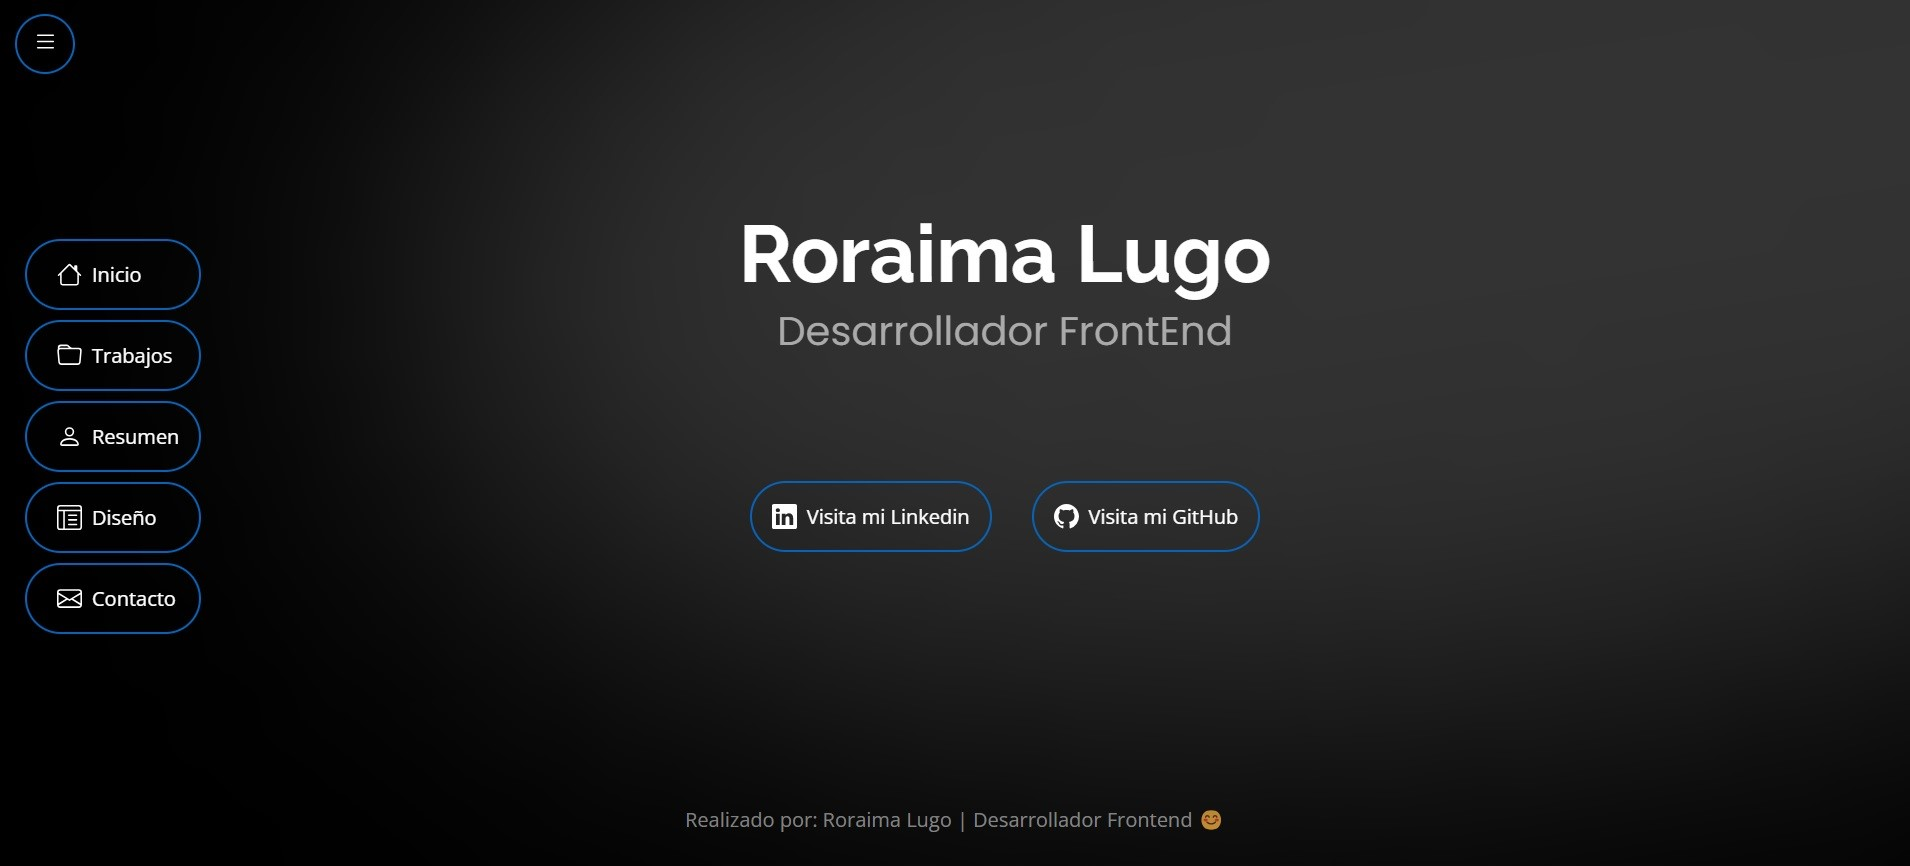
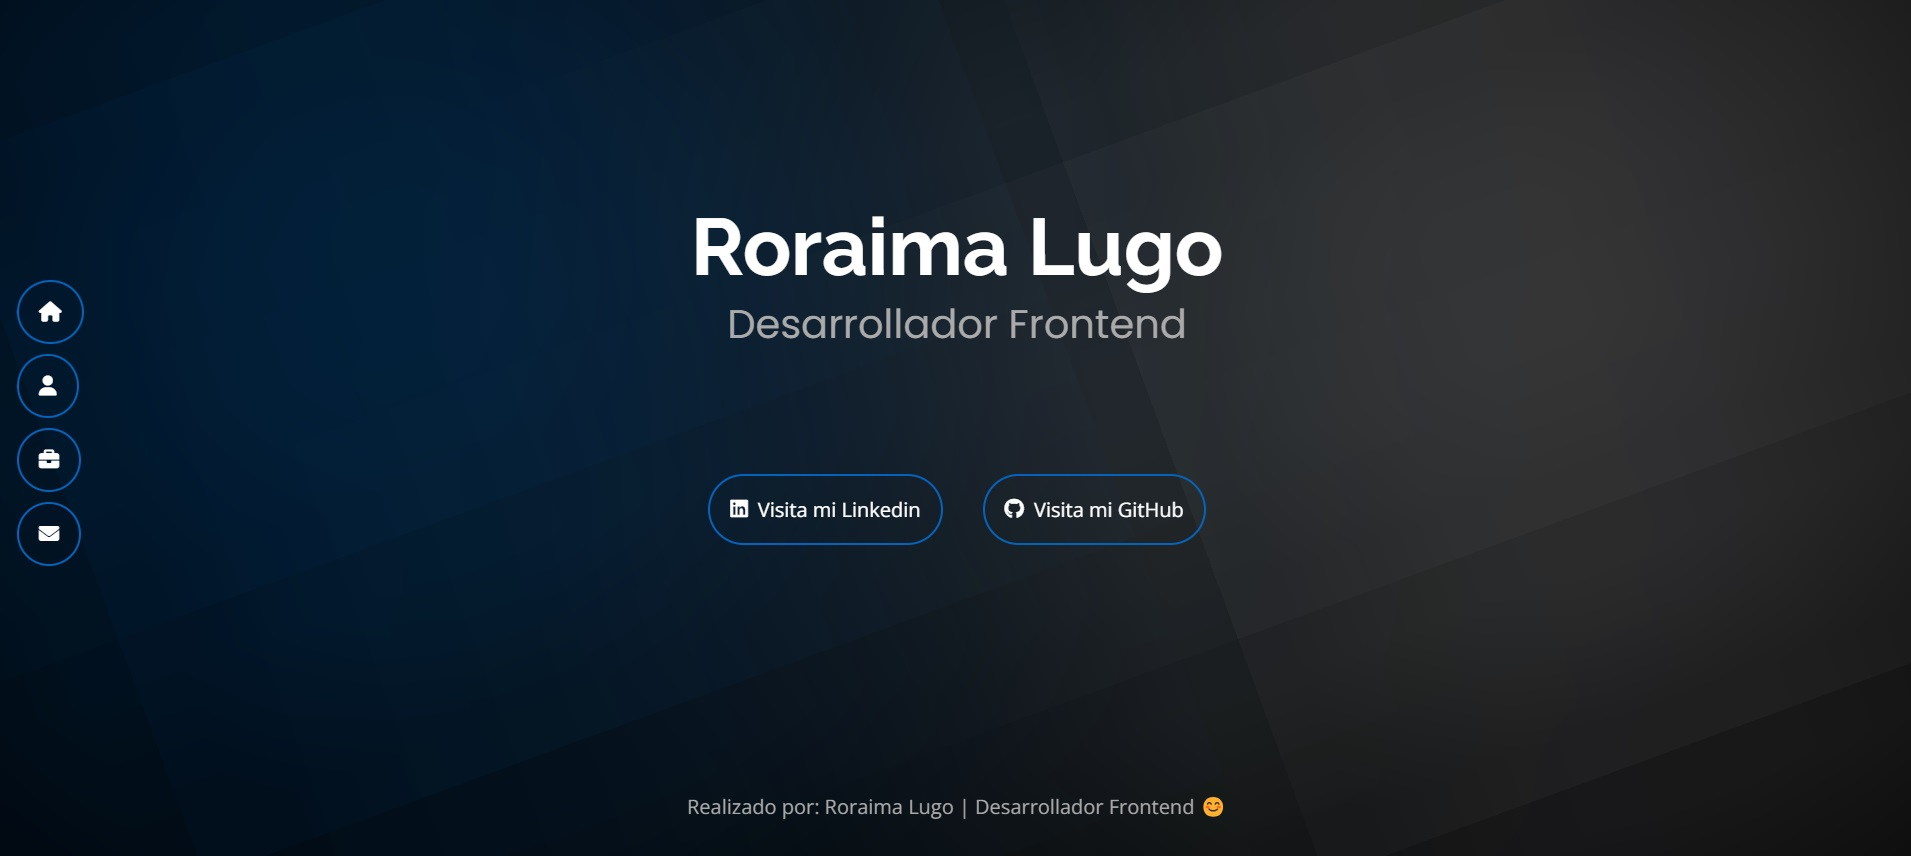
eliminacion de css responsive

diff --git a/src/styles.scss b/src/styles.scss
@@ -23,7 +23,7 @@ body {
   font-family: $text;
 }
 
-/*.circles {
+.circles {
   position: fixed;
   width: 100%;
   height: 100%;
@@ -33,34 +33,34 @@ body {
 
   .circle {
     position: absolute;
-    width: 40%;
-    height: 40%;
+    width: 40rem;
+    height: 30rem;
     border-radius: 50%;
-    filter: blur(3em);
-    animation: circleAnimation 40s linear infinite both;
+    filter: blur(20em);
+    animation: circleAnimation 100s linear infinite both;
   }
 
   @keyframes circleAnimation {
     from{
-      transform: rotate(0deg) scale(3);
+      transform: rotate(0deg);
     }
     to {
-      transform: rotate(360deg) scale(3);
+      transform: rotate(360deg);
     }
   }
 
   .circle1 {
-    background-color: $black;
+    background-color: $blue;
     top: 0%;
     left: 0%;
   }
 
   .circle2 {
-    background-color: $dark-gray;
+    background-color: $gray;
     top: 0%;
     right: 0%;
   }
-}*/
+}
 
 h1 {
   font-family: $title;
@@ -93,7 +93,7 @@ i {
 }
 
 .main {
-  width: 80%;
+  width: 75%;
   margin: 0 auto;
   position: relative;
   z-index: 2;
@@ -106,7 +106,6 @@ i {
   align-items: center;
   justify-content: center;
   padding: 5rem 0;
-  padding-left: 5rem;
   margin: 1rem;
 }
 
@@ -134,7 +133,7 @@ i {
       display: block;
 
       .item {
-        margin: 0.5rem;
+        margin-bottom: 0.5rem;
 
         a {
 
@@ -143,14 +142,6 @@ i {
             padding: 1rem;
             border-radius: 50%;
             transition: all 0.5s;
-          }
-
-          span {
-            margin-left: 0.5rem;
-            color: $blue;
-            opacity: 0!important;
-            transition: all 0.5s;
-            font-weight: bold;
           }
         }
       }
@@ -168,8 +159,6 @@ i {
 
         }
       }
-
-
     }
   }
 }
@@ -182,7 +171,7 @@ i {
     width: 10%;
   }
 
-  h2 {
+  .home-subtitle {
     color: $gray;
     font-family: $subtitle;
     margin-bottom: 5rem;
@@ -270,7 +259,7 @@ i {
       margin-top: 0.5rem;
       margin-bottom: 1rem;
       text-align: right;
-      flex-basis: 20%;
+      flex-basis: 40%;
 
       .resume-year {
         display: block;
@@ -282,7 +271,7 @@ i {
     .divider {
       position: absolute;
       top: 0;
-      left: 22%;
+      left: 41%;
       height: 100%;
       width: 1px;
       background-color: $white;
@@ -311,7 +300,7 @@ i {
     }
 
     .resume-profession {
-      flex-basis: 80%;
+      flex-basis: 60%;
       margin-left: 2rem;
       margin-top: 0.5rem;
       margin-bottom: 1rem;
@@ -361,10 +350,11 @@ i {
           .certificate-id {
             margin-bottom: 0.5rem;
             font-size: 0.8rem;
+            overflow: hidden!important;
+            text-overflow: ellipsis!important;
           }
 
           .certificate-date {
-
             font-size: 0.8rem;
           }
         }
@@ -419,7 +409,7 @@ i {
 
         .img {
           width: 100%;
-          height: 10rem;
+          height: 11rem;
           border:none;
           transition: all 0.5s ease;
         }
@@ -516,21 +506,21 @@ i {
         display: flex;
         align-items: center;
         justify-content: center;
-        width: 5rem;
-        height: 5rem;
+        width: 4rem;
+        height: 4rem;
         border-radius: 50%;
         border: 2px solid $blue;
-        font-size: 2.5rem;
+        font-size: 2rem;
       }
 
       h3 {
-        font-size: 1.5rem;
-        font-weight: 400;
+        font-size: 1.25rem;
+        font-weight: 600;
         margin-bottom: 0.5rem;
       }
 
       p {
-        font-size: 1.25rem;
+        font-size: 1rem;
       }
 
       a {
@@ -538,7 +528,7 @@ i {
       }
 
       .social-icon {
-        font-size: 2rem;
+        font-size: 1.5rem;
         transition: all 0.5s;
       }
 
@@ -552,6 +542,9 @@ i {
 
 /* footer */
 .footer {
+  position: relative;
+  z-index: 2;
+
   p {
     text-align: center;
     color: $gray;
@@ -560,131 +553,3 @@ i {
 }
 
 /* RESPONSIVE  */
-@media screen and (max-width: 1440px){
-  .portfolio-design {
-    .grid-container {
-      grid-template-columns: repeat(2, 1fr);
-    }
-  }
-}
-
-@media screen and (max-width: 991px) {
-
-  .about {
-    .article-about {
-      flex-direction: column;
-
-      .about-description {
-        text-align: center;
-      }
-    }
-  }
-
-  .contact {
-    .info {
-      flex-direction: column;
-
-      .information {
-        margin-bottom: 2rem;
-        justify-content: start;
-      }
-    }
-  }
-}
-
-@media screen and (max-width: 768px) {
-  .section {
-    padding-left: 5rem;
-  }
-
-  .portfolio-design {
-    .grid-container {
-      grid-template-columns: repeat(1, 1fr);
-    }
-  }
-}
-
-@media screen and (max-width:685px) {
-  .main {
-    width: 98%;
-  }
-
-  h1 {
-    font-size: 2.75rem;
-  }
-
-  h2 {
-    font-size: 1.5rem;
-  }
-
-  .home {
-    .link {
-      flex-direction: column;
-    }
-  }
-
-  .about .figure img {
-    width: 95%!important;
-  }
-
-
-}
-
-@media screen and (max-width:499px) {
-
-  .footer {
-    p {
-      font-size: 0.75rem;
-    }
-  }
-}
-
-@media screen and (max-width:480px) {
-  .contact {
-
-    .info {
-
-      .information {
-        .icon {
-          width: 4rem;
-          height: 4rem;
-          font-size: 2rem;
-        }
-
-        h3,
-        p,
-        .social-icon {
-          font-size: 1.2rem;
-        }
-      }
-    }
-
-
-  }
-}
-
-@media screen and (max-width:410px) {
-  .contact {
-
-    .info {
-
-      .information {
-        .icon {
-          width: 3rem;
-          height: 3rem;
-          font-size: 1.5rem;
-        }
-
-        h3,
-        p,
-        .social-icon {
-          font-size: 1rem;
-        }
-      }
-    }
-
-
-  }
-}
-
-

diff --git a/src/app/pages/home-page/home-page.component.html b/src/app/pages/home-page/home-page.component.html
@@ -1,7 +1,7 @@
 <section class="section home" id="home">
 
-  <h1>Roraima Lugo</h1>
-  <h2>Desarrollador Frontend</h2>
+  <h1 class="home-title">Roraima Lugo</h1>
+  <h2 class="home-subtitle">Desarrollador Frontend</h2>
 
   <div class="link">
     <a href="https://www.linkedin.com/in/roraima-lugo-7a077124a" target="_blank" >

diff --git a/src/app/components/navbar/navbar.component.html b/src/app/components/navbar/navbar.component.html
@@ -14,7 +14,6 @@
       <li class="item" *ngFor="let route of routeNavbar">
         <a [routerLink]="route.route">
           <i class="fa-solid {{route.icon}}"></i>
-          <span>{{route.title}}</span>
         </a>
       </li>
     </ul>
